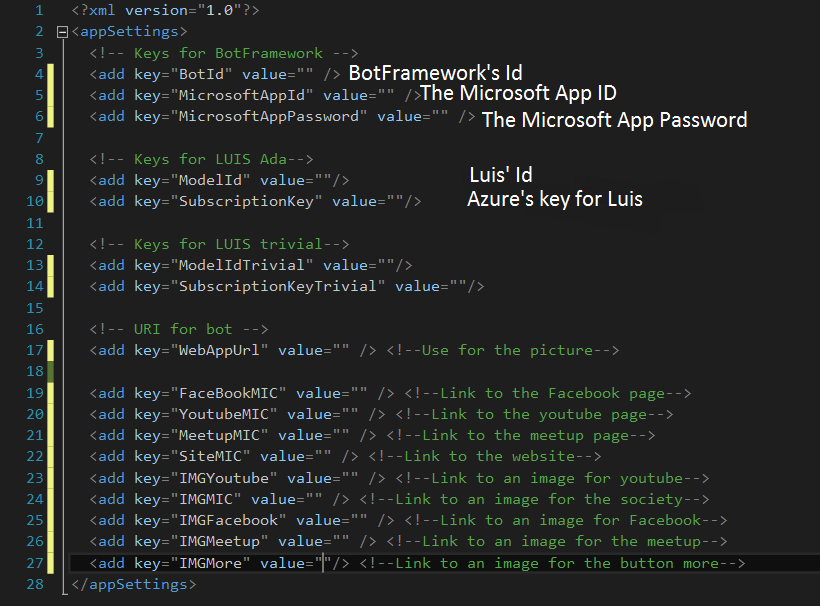
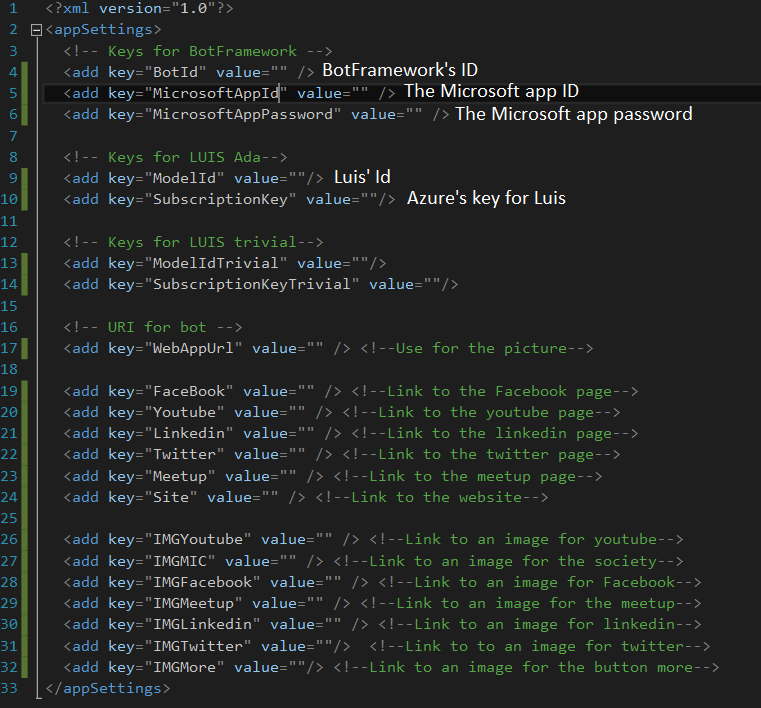
order OK

Changed region(s): [[0.0, 0.0, 0.9369, 0.9802]]

diff --git a/Ada/AdaBot/Dialogs/CreateDialog.cs b/Ada/AdaBot/Dialogs/CreateDialog.cs
@@ -155,20 +155,26 @@ namespace AdaBot.Dialogs
 
             List<string> pictures = new List<string>();
             pictures.Add(ConfigurationManager.AppSettings["IMGFacebook"]);
-            pictures.Add(ConfigurationManager.AppSettings["IMGYoutube"]);
             pictures.Add(ConfigurationManager.AppSettings["IMGMeetup"]);
+            pictures.Add(ConfigurationManager.AppSettings["IMGYoutube"]);
+            pictures.Add(ConfigurationManager.AppSettings["IMGMIC"]);
+            pictures.Add(ConfigurationManager.AppSettings["IMGMIC"]);
             pictures.Add(ConfigurationManager.AppSettings["IMGMIC"]);
 
             List<string> btnAction = new List<string>();
             btnAction.Add(ConfigurationManager.AppSettings["FaceBookMIC"]);
-            btnAction.Add(ConfigurationManager.AppSettings["YoutubeMIC"]);
             btnAction.Add(ConfigurationManager.AppSettings["MeetupMIC"]);
+            btnAction.Add(ConfigurationManager.AppSettings["YoutubeMIC"]);
+            btnAction.Add(ConfigurationManager.AppSettings["YoutubeMIC"]);
+            btnAction.Add(ConfigurationManager.AppSettings["YoutubeMIC"]);
             btnAction.Add(ConfigurationManager.AppSettings["SiteMIC"]);
 
             List<string> btnString = new List<string>();
             btnString.Add("Notre Facebook");
-            btnString.Add("Notre chaîne Youtube");
             btnString.Add("Notre Meetup");
+            btnString.Add("Notre chaîne Youtube");
+            btnString.Add("Notre Twitter");
+            btnString.Add("Notre Linkedin");
             btnString.Add("Notre Site");
 
             for (int i = 0; i < btnAction.Count(); i++)
